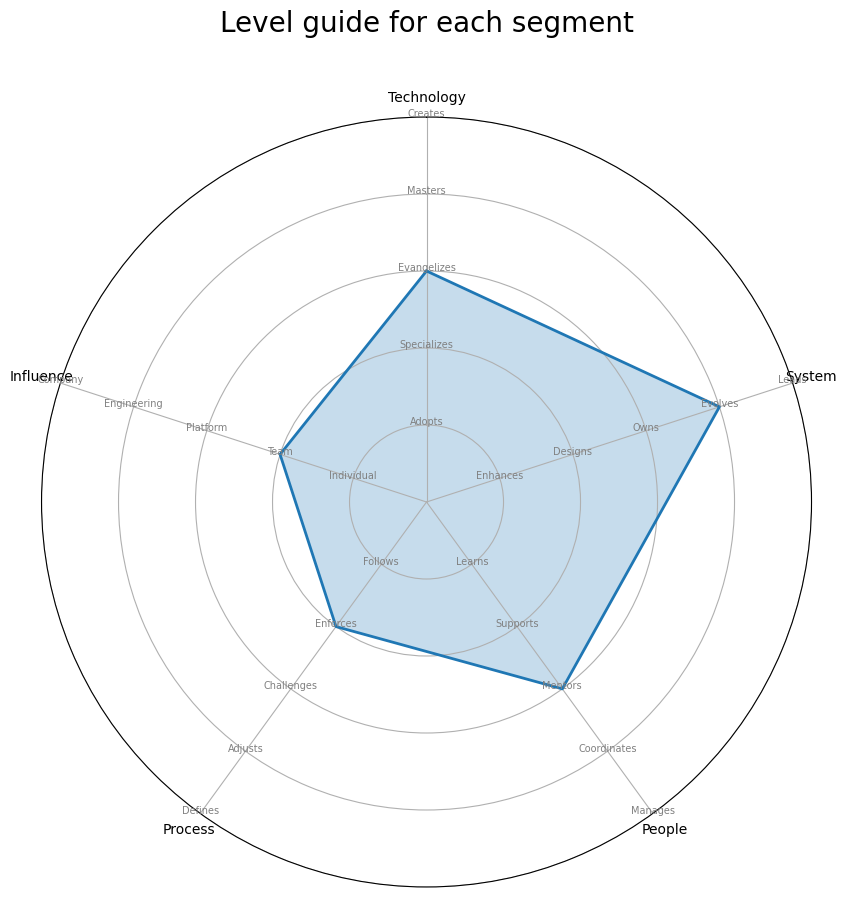
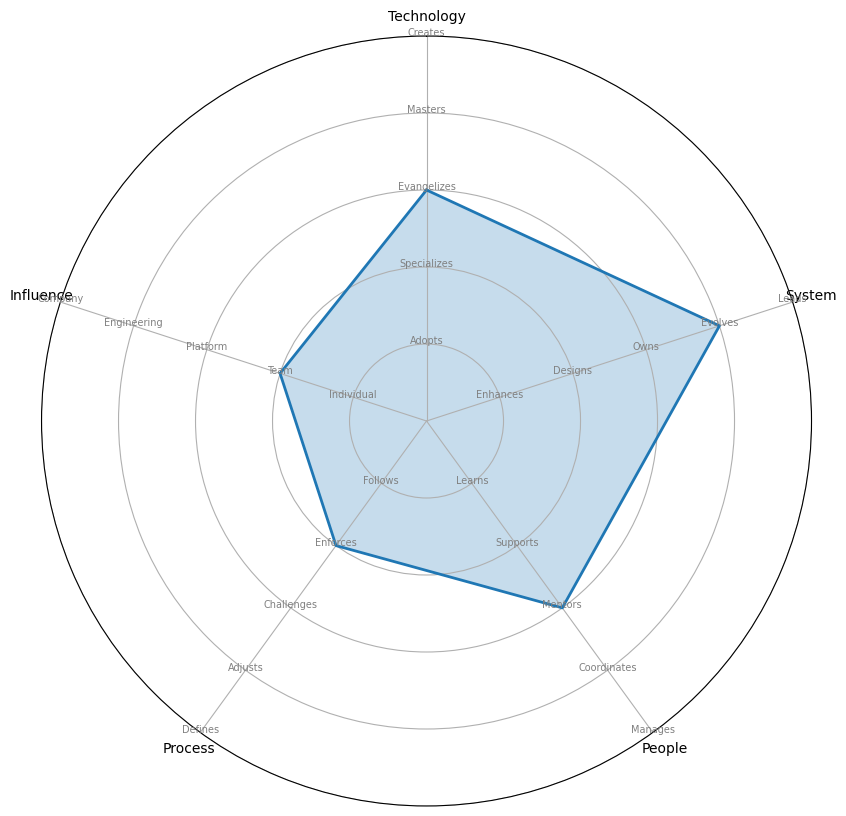
draft

diff --git a/main.py b/main.py
@@ -43,7 +43,7 @@ class RadarChart:
                         ax.text(angle, level, label, horizontalalignment='center', size=7, color='grey')
 
         # Add a title
-        plt.title('Level guide for each segment', size=20, color="black", y=1.1)
+        # plt.title('Data Science Ladder', size=20, color="black", y=1.1)
         # plt.show()
         # Save the figure
         plt.savefig(output_filename, bbox_inches='tight')
@@ -456,7 +456,66 @@ ds_level_stats = {
 }
 
 
+levels = {
+    'Technology': 0,
+    'System': 0,
+    'People': 0,
+    'Process': 0,
+    'Influence': 0
+}
+
+
+radar_chart = RadarChart(categories, levels, yticks_labels)
+# Generate and save the chart as a PNG file
+pic_file_loc = f'charts/template.png'
+radar_chart.create_chart(pic_file_loc)
+
+readme_navigator = ""
+
+for job, val in ds_level_stats.items():
+    for level, stats in val.items():
+        levels = stats
+        # Create a RadarChart instance with the categories, levels, and custom y-ticks
+        radar_chart = RadarChart(categories, levels, yticks_labels)
+        # Generate and save the chart as a PNG file
+        position = f'{job} {level}'
+        pic_file_loc = f'charts/{position}.png'
+        radar_chart.create_chart(pic_file_loc)
+
+
+        jb_specific = f"""
+##### [README](README.md)
+       
+<picture>
+  <img alt="Template Chart" src="{pic_file_loc}">
+</picture>
+
+        """
+        for k, v in stats.items():
+            for l in levels:
+                jb_specific += datascience_desc[k][v]
+        jb_specific += """
+##### [README](README.md)"""
+
+        out_file_loc = f'{position}.md'
+        with open(out_file_loc, 'w') as f:
+            f.write(jb_specific)
+
+        readme_navigator += f"""
+* [{position}]({out_file_loc})"""
+
+
 readme = f"""
+# Data Science Ladders
+<picture>
+  <img alt="Template Chart" src="charts/template.png">
+</picture>
+
+{readme_navigator}
+"""
+
+readme += f"""
+
 {axes_desc}
 
 ## Levels - Level을 결정하는 요소에 대한 설명
@@ -472,35 +531,7 @@ for cat in categories:
 {datascience_desc[cat][lvl]}
 """
 
-
-for job, val in ds_level_stats.items():
-    for level, stats in val.items():
-        levels = stats
-        # Create a RadarChart instance with the categories, levels, and custom y-ticks
-        radar_chart = RadarChart(categories, levels, yticks_labels)
-        # Generate and save the chart as a PNG file
-        position = f'{job} {level}'
-        pic_file_loc = f'charts/{position}.png'
-        radar_chart.create_chart(pic_file_loc)
-
-
-        jb_specific = f"""
-        
-<picture>
-  <img alt="Template Chart" src="{pic_file_loc}">
-</picture>
-
-        """
-        for k, v in stats.items():
-            for l in levels:
-                jb_specific += datascience_desc[k][v]
-
-        out_file_loc = f'{position}.md'
-        with open(out_file_loc, 'w') as f:
-            f.write(jb_specific)
-
-        readme += f"""
-* [{position}]({out_file_loc})"""
+readme += readme_navigator
 
 with open('README.md', 'w') as f:
     f.write(readme)

diff --git a/README.md b/README.md
@@ -1,4 +1,24 @@
 
+# Data Science Ladders
+<picture>
+  <img alt="Template Chart" src="charts/template.png">
+</picture>
+
+
+* [Data Scientist 3](Data Scientist 3.md)
+* [Data Scientist 4](Data Scientist 4.md)
+* [Data Scientist 5](Data Scientist 5.md)
+* [Data Scientist 6](Data Scientist 6.md)
+* [Tech Lead 5](Tech Lead 5.md)
+* [Tech Lead 6](Tech Lead 6.md)
+* [Tech Lead 7](Tech Lead 7.md)
+* [Tech Lead 8](Tech Lead 8.md)
+* [Engineering Manager 5](Engineering Manager 5.md)
+* [Engineering Manager 6](Engineering Manager 6.md)
+* [Engineering Manager 7](Engineering Manager 7.md)
+* [Engineering Manager 8](Engineering Manager 8.md)
+
+
 
 ## Axes - 위 차트에 속한 5가지의 축
 

diff --git a/Engineering Manager 6.md b/Engineering Manager 6.md
@@ -1,5 +1,6 @@
 
-        
+##### [README](README.md)
+       
 <picture>
   <img alt="Template Chart" src="charts/Engineering Manager 6.png">
 </picture>
@@ -220,3 +221,4 @@
 #### Platform: 단일 팀을 넘어 여러 팀 및 플랫폼 전반에 걸쳐 영향을 미치며, 조직의 데이터 과학 전략에 기여합니다
 
 * 조직 내 다양한 데이터 과학 팀과 협업하여, 데이터 기반의 의사결정 프로세스를 강화하고, 조직 전반의 데이터 과학 역량을 향상시킵니다. 이는 조직의 데이터 분석 및 모델링 플랫폼의 발전과 혁신에 중요한 역할을 합니다.
+##### [README](README.md)

diff --git a/Data Scientist 3.md b/Data Scientist 3.md
@@ -1,5 +1,6 @@
 
-        
+##### [README](README.md)
+       
 <picture>
   <img alt="Template Chart" src="charts/Data Scientist 3.png">
 </picture>
@@ -185,3 +186,4 @@
 #### Individual: 개인의 전문성을 바탕으로 특정 데이터 과학 프로젝트나 서브 시스템에 영향을 미칩니다
 
 * 개인이 보유한 데이터 과학 기술과 지식을 활용하여 프로젝트의 성공에 기여하며, 특정 분석 모델이나 데이터 처리 시스템의 개선을 주도합니다. 이러한 기여는 프로젝트의 결과물 품질을 높이고, 팀 내에서의 전문성을 인정받게 만듭니다.
+##### [README](README.md)

diff --git a/Data Scientist 6.md b/Data Scientist 6.md
@@ -1,5 +1,6 @@
 
-        
+##### [README](README.md)
+       
 <picture>
   <img alt="Template Chart" src="charts/Data Scientist 6.png">
 </picture>
@@ -220,3 +221,4 @@
 #### Platform: 단일 팀을 넘어 여러 팀 및 플랫폼 전반에 걸쳐 영향을 미치며, 조직의 데이터 과학 전략에 기여합니다
 
 * 조직 내 다양한 데이터 과학 팀과 협업하여, 데이터 기반의 의사결정 프로세스를 강화하고, 조직 전반의 데이터 과학 역량을 향상시킵니다. 이는 조직의 데이터 분석 및 모델링 플랫폼의 발전과 혁신에 중요한 역할을 합니다.
+##### [README](README.md)

diff --git a/Engineering Manager 7.md b/Engineering Manager 7.md
@@ -1,5 +1,6 @@
 
-        
+##### [README](README.md)
+       
 <picture>
   <img alt="Template Chart" src="charts/Engineering Manager 7.png">
 </picture>
@@ -220,3 +221,4 @@
 #### Engineering: 엔지니어링 전체 조직에 영향을 미치며, 여러 데이터 과학 및 엔지니어링 팀 간의 협력을 촉진합니다
 
 * 데이터 과학의 범위를 넘어 엔지니어링 조직 전체에 걸쳐 협업과 지식 공유를 촉진하며, 다학제 간의 프로젝트에서 중추적인 역할을 수행합니다. 이는 기술 및 엔지니어링 분야에서의 혁신과 효율성 증대에 기여합니다.
+##### [README](README.md)

diff --git a/Tech Lead 6.md b/Tech Lead 6.md
@@ -1,5 +1,6 @@
 
-        
+##### [README](README.md)
+       
 <picture>
   <img alt="Template Chart" src="charts/Tech Lead 6.png">
 </picture>
@@ -210,3 +211,4 @@
 #### Platform: 단일 팀을 넘어 여러 팀 및 플랫폼 전반에 걸쳐 영향을 미치며, 조직의 데이터 과학 전략에 기여합니다
 
 * 조직 내 다양한 데이터 과학 팀과 협업하여, 데이터 기반의 의사결정 프로세스를 강화하고, 조직 전반의 데이터 과학 역량을 향상시킵니다. 이는 조직의 데이터 분석 및 모델링 플랫폼의 발전과 혁신에 중요한 역할을 합니다.
+##### [README](README.md)

diff --git a/Tech Lead 7.md b/Tech Lead 7.md
@@ -1,5 +1,6 @@
 
-        
+##### [README](README.md)
+       
 <picture>
   <img alt="Template Chart" src="charts/Tech Lead 7.png">
 </picture>
@@ -225,3 +226,4 @@
 #### Engineering: 엔지니어링 전체 조직에 영향을 미치며, 여러 데이터 과학 및 엔지니어링 팀 간의 협력을 촉진합니다
 
 * 데이터 과학의 범위를 넘어 엔지니어링 조직 전체에 걸쳐 협업과 지식 공유를 촉진하며, 다학제 간의 프로젝트에서 중추적인 역할을 수행합니다. 이는 기술 및 엔지니어링 분야에서의 혁신과 효율성 증대에 기여합니다.
+##### [README](README.md)

diff --git a/Engineering Manager 5.md b/Engineering Manager 5.md
@@ -1,5 +1,6 @@
 
-        
+##### [README](README.md)
+       
 <picture>
   <img alt="Template Chart" src="charts/Engineering Manager 5.png">
 </picture>
@@ -230,3 +231,4 @@
 #### Team: 데이터 과학 팀 전체에 걸쳐 영향을 끼치며, 팀의 성과와 역량 강화에 기여합니다
 
 * 데이터 과학 분야에서의 깊은 지식과 경험을 팀원들과 공유하며, 팀 전체의 데이터 분석 및 모델링 역량을 향상시킵니다. 협업과 지식 공유를 통해 팀의 전반적인 성과를 높이고, 팀 내 혁신과 성장을 촉진합니다.
+##### [README](README.md)

diff --git a/Data Scientist 4.md b/Data Scientist 4.md
@@ -1,5 +1,6 @@
 
-        
+##### [README](README.md)
+       
 <picture>
   <img alt="Template Chart" src="charts/Data Scientist 4.png">
 </picture>
@@ -250,3 +251,4 @@
 #### Team: 데이터 과학 팀 전체에 걸쳐 영향을 끼치며, 팀의 성과와 역량 강화에 기여합니다
 
 * 데이터 과학 분야에서의 깊은 지식과 경험을 팀원들과 공유하며, 팀 전체의 데이터 분석 및 모델링 역량을 향상시킵니다. 협업과 지식 공유를 통해 팀의 전반적인 성과를 높이고, 팀 내 혁신과 성장을 촉진합니다.
+##### [README](README.md)

diff --git a/Data Scientist 5.md b/Data Scientist 5.md
@@ -1,5 +1,6 @@
 
-        
+##### [README](README.md)
+       
 <picture>
   <img alt="Template Chart" src="charts/Data Scientist 5.png">
 </picture>
@@ -220,3 +221,4 @@
 #### Team: 데이터 과학 팀 전체에 걸쳐 영향을 끼치며, 팀의 성과와 역량 강화에 기여합니다
 
 * 데이터 과학 분야에서의 깊은 지식과 경험을 팀원들과 공유하며, 팀 전체의 데이터 분석 및 모델링 역량을 향상시킵니다. 협업과 지식 공유를 통해 팀의 전반적인 성과를 높이고, 팀 내 혁신과 성장을 촉진합니다.
+##### [README](README.md)

diff --git a/Tech Lead 5.md b/Tech Lead 5.md
@@ -1,5 +1,6 @@
 
-        
+##### [README](README.md)
+       
 <picture>
   <img alt="Template Chart" src="charts/Tech Lead 5.png">
 </picture>
@@ -220,3 +221,4 @@
 #### Team: 데이터 과학 팀 전체에 걸쳐 영향을 끼치며, 팀의 성과와 역량 강화에 기여합니다
 
 * 데이터 과학 분야에서의 깊은 지식과 경험을 팀원들과 공유하며, 팀 전체의 데이터 분석 및 모델링 역량을 향상시킵니다. 협업과 지식 공유를 통해 팀의 전반적인 성과를 높이고, 팀 내 혁신과 성장을 촉진합니다.
+##### [README](README.md)
